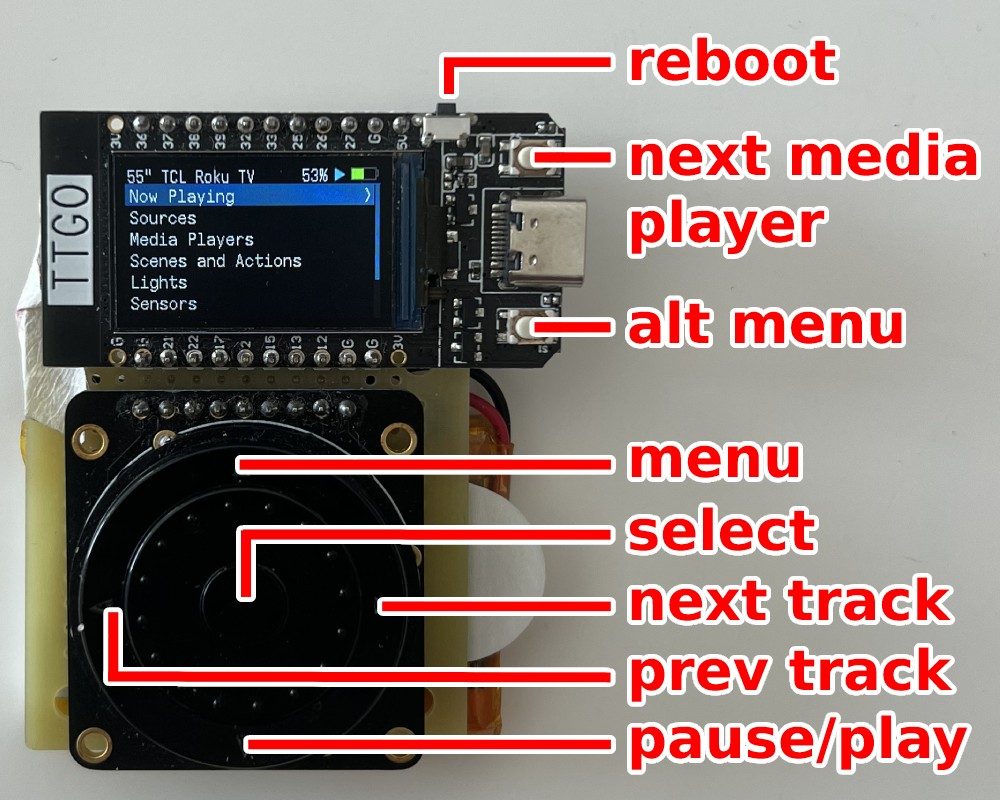
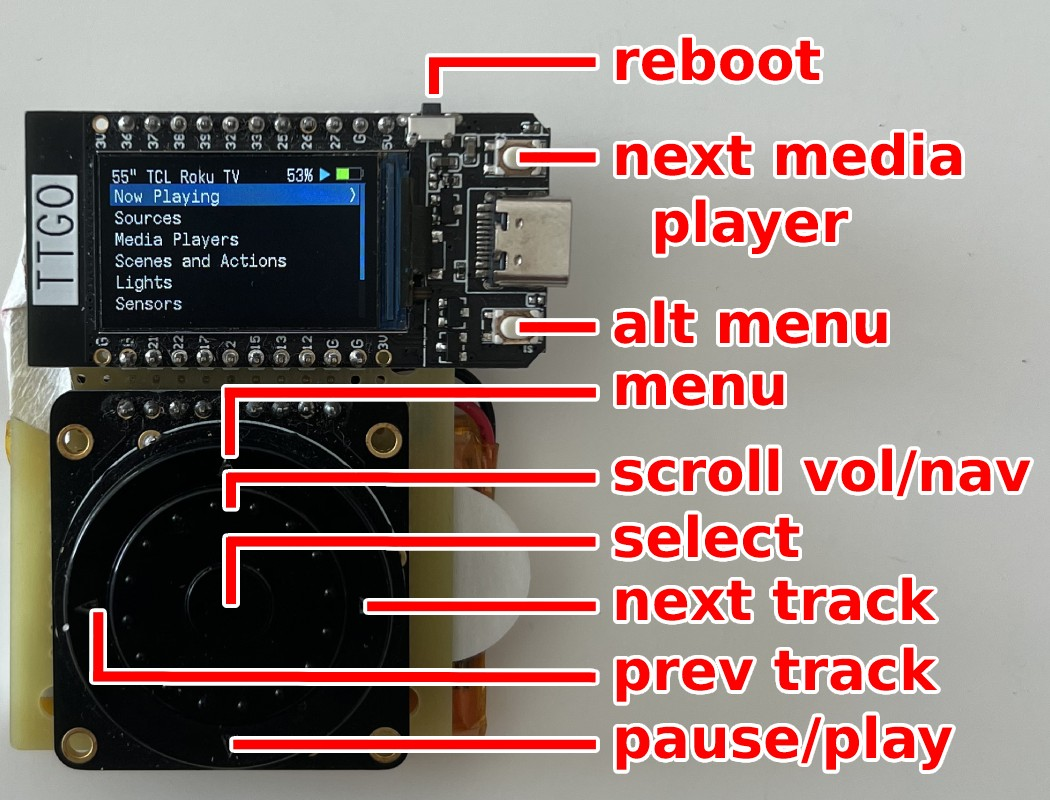
update readme and tdisplay overlay pic

diff --git a/README.md b/README.md
@@ -76,11 +76,9 @@ iPod style wifi smart home remote. Uses ESPHome and Home Assistant to integrate 
 
 |Lilygo T-Display Controls|
 |--|
-|<img src="docs/tdisplayOverlay.jpg" width="400"/>|
+|<img src="docs/tdisplayOverlay.jpg" width="525"/>|
 
-- Scroll to navigate ui and for volume on now playing
-- Up for menu, left for previous track, right for next track, down for pause, center for select
-- 2 additional buttons for options menu and quickly switching media players
+- Scroll to navigate in list menus and for volume on Now Playing Menu
 - Charges with usb-c
 - 1100 mah battery
 - On average 3 days of battery life depending on use
@@ -108,7 +106,7 @@ iPod style wifi smart home remote. Uses ESPHome and Home Assistant to integrate 
 
 |Lilygo T4 Controls|
 |--|
-|<img src="docs/tdisplayT4.jpg" width="400"/>|
+|<img src="docs/tdisplayT4.jpg" width="500"/>|
 
 ## includes
 - esphome https://esphome.io/
